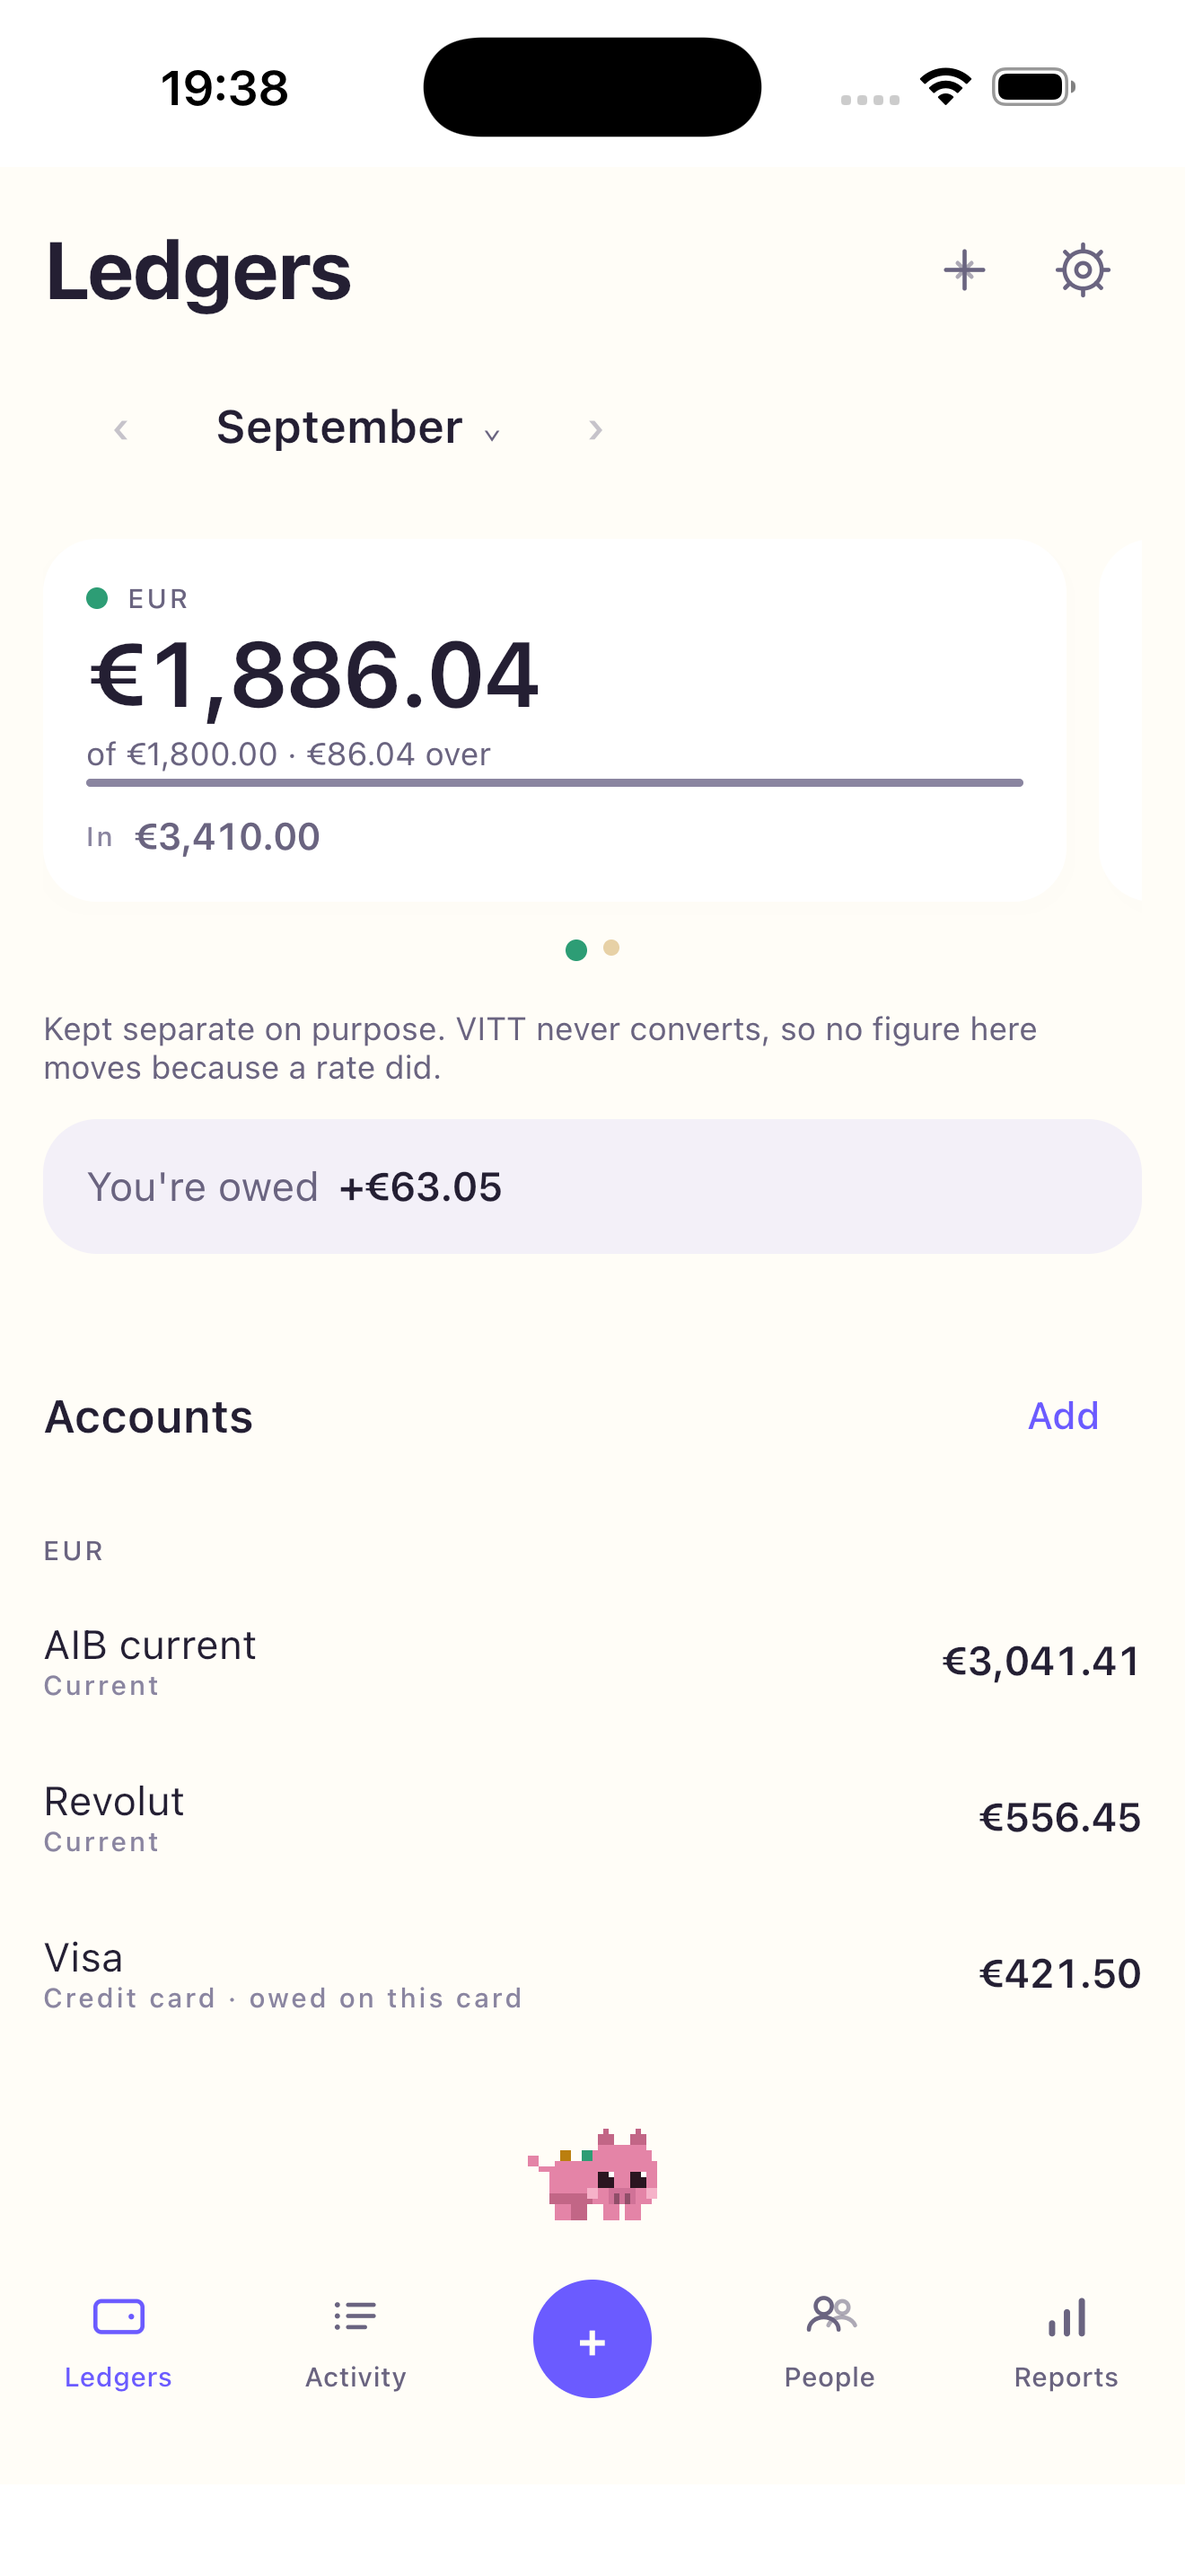
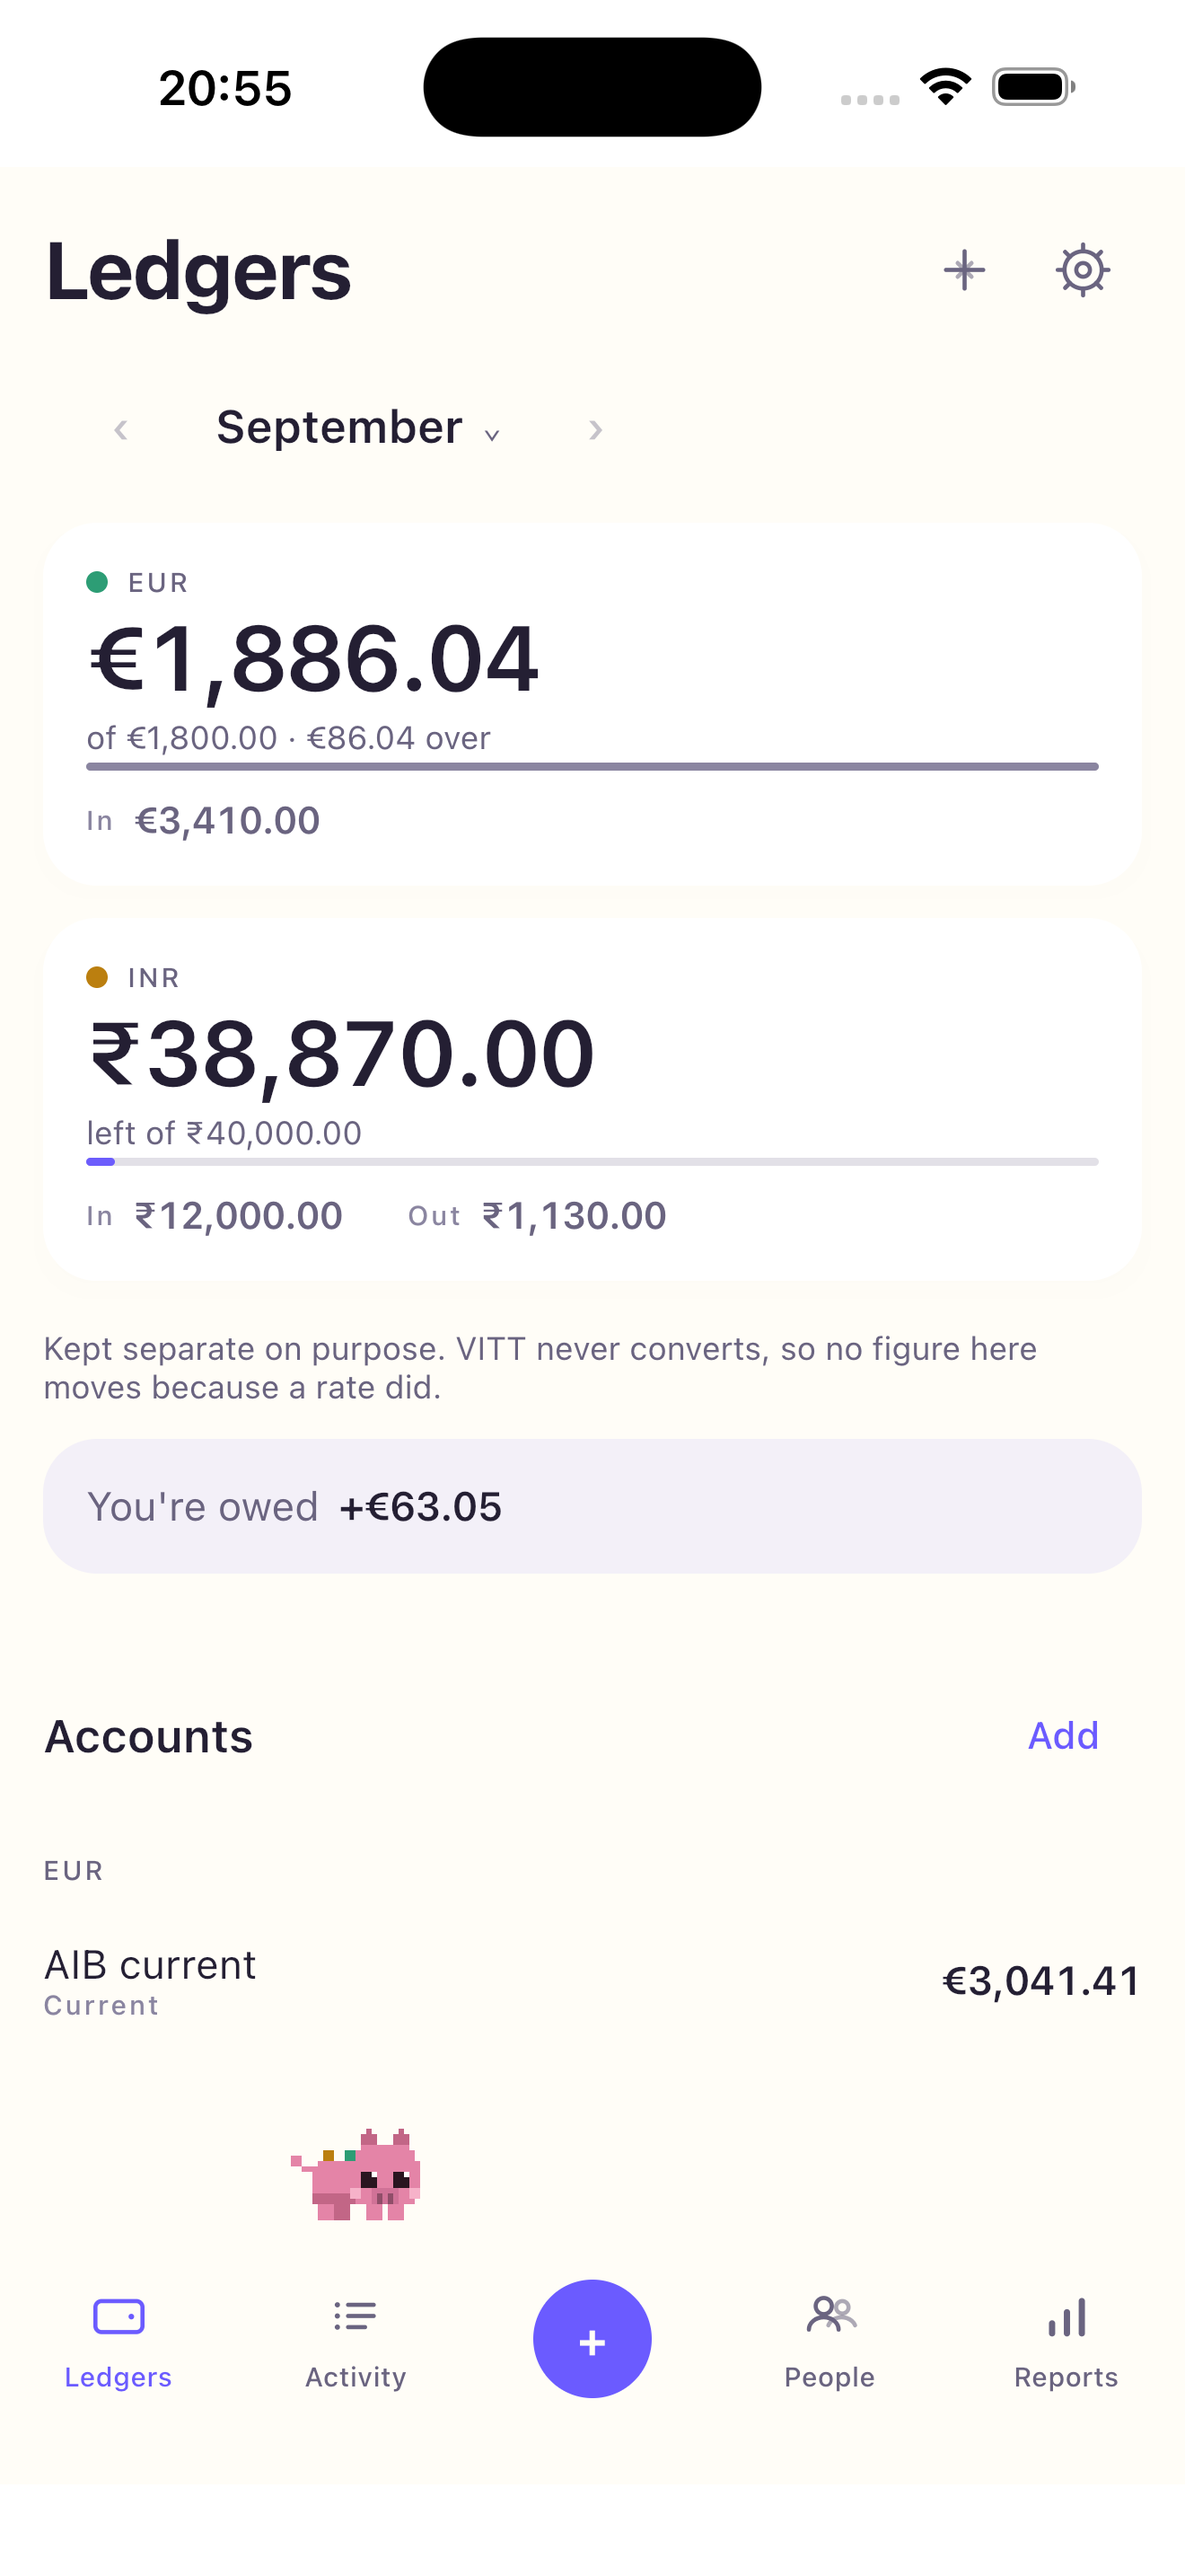
fix(setup)+docs: quieter setup copy, and the five store screenshots
"Start with 0 accounts" was a broken sentence on the screen everybody sees
first. No count until there is one to give.

Remove is muted rather than destructive. Nothing is written to the event log
until Start, so it takes a line out of a list rather than deleting anything,
and a column of red words was shouting over the names the list exists to show.

All five 6.9-inch screenshots captured from a seeded simulator at 1320x2868.
An earlier revision of app-store-listing.md called for 1290x2796: that is the
6.7-inch size. Platforms from the 16 Pro Max on are 1320x2868, and submitting
the wrong one means the 6.9-inch slot stays empty.

diff --git a/composeApp/src/commonMain/kotlin/ie/shoonya/vitt/ui/screens/SetupScreen.kt b/composeApp/src/commonMain/kotlin/ie/shoonya/vitt/ui/screens/SetupScreen.kt
@@ -141,8 +141,17 @@ fun SetupScreen(
                             style = Vitt.type.body,
                             color = Vitt.colors.ink,
                         )
+                        // Muted, not destructive. Nothing is written to the
+                        // event log until Start, so this removes a line from a
+                        // list rather than deleting anything, and a column of
+                        // red words was shouting over the names the list exists
+                        // to show.
                         TextButton(onClick = { drafts.remove(draft) }) {
-                            Text("Remove", color = Vitt.colors.destructive)
+                            Text(
+                                "Remove",
+                                style = Vitt.type.label,
+                                color = Vitt.colors.inkMuted,
+                            )
                         }
                     }
                 }
@@ -203,7 +212,16 @@ fun SetupScreen(
             enabled = drafts.isNotEmpty(),
             modifier = Modifier.fillMaxWidth(),
         ) {
-            Text(if (drafts.size == 1) "Start with 1 account" else "Start with ${drafts.size} accounts")
+            Text(
+                // No count until there is one to give. "Start with 0 accounts"
+                // reads as a broken sentence on the screen everybody sees first,
+                // and the button is disabled there anyway.
+                when (drafts.size) {
+                    0 -> "Start"
+                    1 -> "Start with 1 account"
+                    else -> "Start with ${drafts.size} accounts"
+                },
+            )
         }
     }
 }

diff --git a/docs/app-store-listing.md b/docs/app-store-listing.md
@@ -102,8 +102,9 @@ First release.
 
 ## Screenshots
 
-`{{SCREENSHOTS_6_9}}` — 6.9" (1290x2796), 3 to 10 of them. Suggested order, which
-is also the order that tells the story:
+Captured, in `screenshots/6.9/`. Five of them, 1320x2868, which is the 6.9"
+size: 1290x2796 is 6.7", and an earlier revision of this file had the two
+confused. Taken from a seeded simulator, in the order that tells the story:
 
 1. Ledgers, two currencies, budget bars showing.
 2. Add, mid-amount, keypad open.
@@ -111,7 +112,8 @@ is also the order that tells the story:
 4. Activity, a list with a split visible.
 5. Settings, showing Google connect and the plain "no account, no server" line.
 
-Seed the data first so nothing is empty. See `docs/submission-placeholders.md`.
+Re-capture with `SIMCTL_CHILD_VITT_SEED=1` on a 16 Pro Max, stacked card
+layout, so the Ledgers shot shows two currencies rather than one and a peek.
 
 ## App privacy (the nutrition card)
 

diff --git a/docs/submission-placeholders.md b/docs/submission-placeholders.md
@@ -48,7 +48,7 @@ number on every upload, including a rejected one's replacement.
 
 | Token | What it is | Notes |
 |---|---|---|
-| `{{SCREENSHOTS_6_9}}` | 3–10 screenshots, 1290×2796 | 6.9" is the only required size; Apple scales it down for other devices |
+| ~~`{{SCREENSHOTS_6_9}}`~~ | **Done.** Five in `screenshots/6.9/`, 1320×2868 | 6.9" is the only required size; Apple scales it down for other devices. 1290×2796 is 6.7", not 6.9" |
 | `{{DEMO_VIDEO_URL}}` | Optional walkthrough for App Review | Unlisted YouTube link is fine. Record: add a spend → Ledgers → Reports → connect Google → disconnect |
 
 Screenshots must show the app in use, never a splash or an empty state. Seed the
